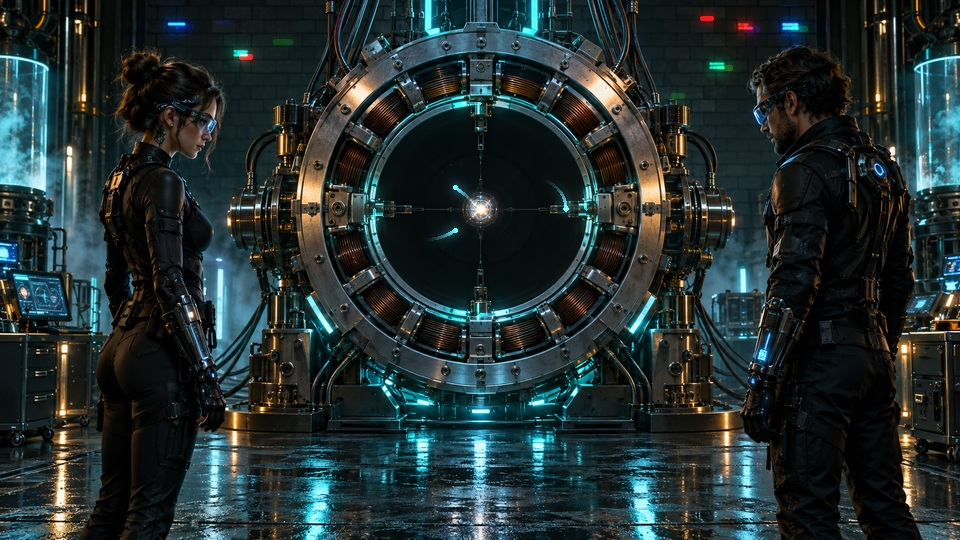
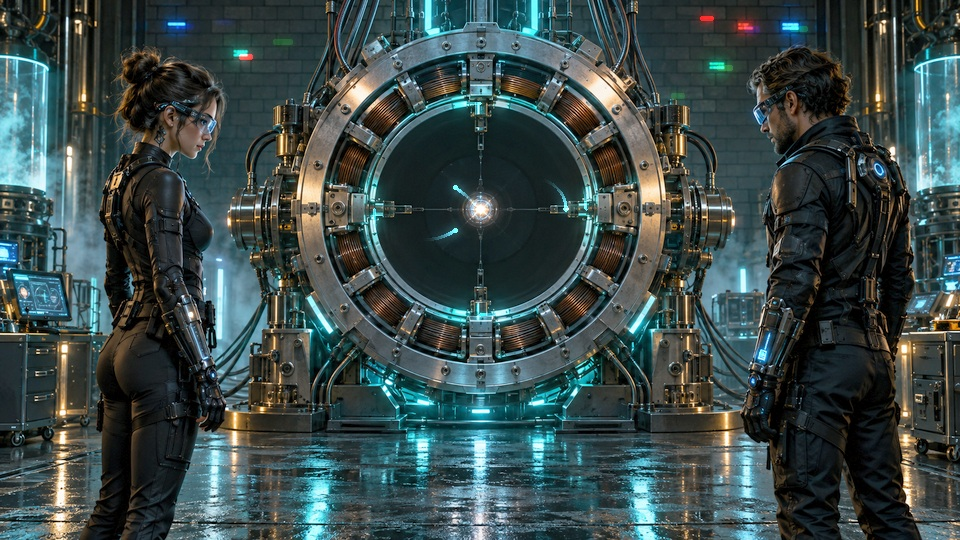
Add files via upload

diff --git a/index.html b/index.html
@@ -1,10 +1,10 @@
 <!DOCTYPE html>
-<html lang="hr">
+<html lang="en">
 <head>
 <meta charset="utf-8">
 <meta name="viewport" content="width=device-width,initial-scale=1">
 <title>Perpetuum · Motivational Momentum 365</title>
-<meta name="description" content="Cyberpunk vizualni eksperiment: Perpetuum. Svaki kraj pokreće novi početak.">
+<meta name="description" content="A cyberpunk visual experiment: Perpetuum. Every ending sets a new beginning in motion.">
 <style>
 *{box-sizing:border-box}body{margin:0;background:#070d11;color:#e7eff0;font-family:system-ui,sans-serif}main{max-width:1440px;margin:auto;padding:28px 24px}header{display:flex;justify-content:space-between;align-items:center;gap:20px;margin-bottom:24px}.brand{font-size:12px;letter-spacing:.16em;color:#92aaaf}a{color:#86cfd5;text-decoration:none;font-size:12px}figure{margin:0;border:1px solid #25343a;background:#071217;overflow:hidden;border-radius:4px}img{display:block;width:100%;height:auto}footer{display:flex;align-items:center;justify-content:space-between;gap:24px;padding-top:24px}h1{margin:0;font-weight:300;letter-spacing:.17em;font-size:clamp(24px,4vw,44px)}p{color:#8ea5ac;font-size:13px;line-height:1.7;margin:9px 0}.number{color:#59b7c1;font-size:11px;letter-spacing:.2em}button{font:inherit;font-size:12px;background:transparent;border:1px solid #405860;border-radius:3px;color:#cce3e7;padding:10px 18px;cursor:pointer}button:focus-visible,a:focus-visible{outline:2px solid #a3eaff;outline-offset:4px}@media(max-width:600px){main{padding:20px 12px}.brand{font-size:9px}footer{align-items:flex-start}p{font-size:11px}}
 </style>
@@ -12,13 +12,13 @@
 <body>
 <main>
 <header><span class="brand">MOTIVATIONAL MOMENTUM 365</span><a href="https://github.com/ChevCellios/motivational-momentum-365">GitHub ↗</a></header>
-<figure><img id="art" src="assets/poster.jpg" width="960" height="540" alt="Dvoje ljudi s tehnološkim gadgetima uz perpetuum mobile stroj i svjetleće RGB ciglice."></figure>
-<footer><div><span class="number">001 / VIZUALNI EKSPERIMENT</span><h1>PERPETUUM</h1><p>Svaki kraj pokreće novi početak.</p></div><button id="toggle" type="button">Pokreni</button></footer>
+<figure><img id="art" src="perpetuum.gif" width="960" height="540" alt="Two people with futuristic gadgets beside a perpetual motion machine and glowing RGB bricks."></figure>
+<footer><div><span class="number">001 / VISUAL EXPERIMENT</span><h1>PERPETUUM</h1><p>Every ending sets a new beginning in motion.</p></div><button id="toggle" type="button" aria-pressed="true">Pause</button></footer>
 </main>
 <script>
 const art=document.getElementById('art'),button=document.getElementById('toggle');
-let running=!matchMedia('(prefers-reduced-motion: reduce)').matches;
-function update(){art.src=running?'perpetuum.gif':'assets/poster.jpg';button.textContent=running?'Zaustavi':'Pokreni';button.setAttribute('aria-pressed',String(running));}
+let running=true;
+function update(){art.src=running?'perpetuum.gif':'assets/poster.jpg';button.textContent=running?'Pause':'Play';button.setAttribute('aria-pressed',String(running));}
 button.addEventListener('click',()=>{running=!running;update()});update();
 </script>
 </body>

diff --git a/src/render.py b/src/render.py
@@ -1,13 +1,16 @@
-"""Programirana animacija: Python + Pillow. Pokretanje: python src/render.py.
+"""Procedural animation with Python and Pillow. Run: python src/render.py.
 
-Osnovna ilustracija je AI-generirana. Ovaj program animira rotor,
-zatvoreni tok energije, jezgru, gadgete i RGB ciglice. Likovi su mirni.
-Prompt za izradu osnovne ilustracije nije dio javnog projekta.
+The base illustration is AI-generated. This script animates the rotor,
+closed energy flow, core, gadgets and RGB bricks. The characters remain still.
+The image-generation prompt is not included in the public project.
 """
 from pathlib import Path
 from math import sin, cos, pi
 import argparse
 import random
+import shutil
+import subprocess
+import tempfile
 from PIL import Image, ImageDraw, ImageFilter, ImageChops
 
 ROOT = Path(__file__).resolve().parents[1]
@@ -16,7 +19,11 @@ TAU = 2 * pi
 CX, CY = 480, 209
 
 base = Image.open(ROOT / 'assets/scene.png').convert('RGB').resize((W, H), Image.Resampling.LANCZOS)
-# Pravi teksturirani rotor, odvojen od nepomicnog vanjskog kucista.
+# Lift shadows and midtones while preserving highlight detail.
+# Keep the original illustration unchanged; apply grading during rendering.
+tone_curve = [round(255 * (value / 255) ** 0.68) for value in range(256)]
+base = base.point(tone_curve * 3)
+# Extract the textured rotor from the stationary outer housing.
 R = 155
 rotor = base.crop((CX-R, CY-R, CX+R, CY+R))
 mask = Image.new('L', rotor.size)
@@ -37,7 +44,7 @@ def frame(index):
     out.paste(moving, (CX-R, CY-R), mask)
     light = Image.new('RGB', (W,H))
     d = ImageDraw.Draw(light)
-    # Tri svjetlosna putnika prolaze istom zatvorenom putanjom osmice.
+    # Three light particles follow the same closed figure-eight path.
     def infinity(a):
         return (CX+86*cos(a)/(1+sin(a)**2), CY+86*sin(a)*cos(a)/(1+sin(a)**2))
     for k in range(3):
@@ -48,7 +55,7 @@ def frame(index):
             color = tuple(int(c*brightness) for c in (90,211,238))
             radius = 1.1 if j else 2.1
             d.ellipse((x-radius,y-radius,x+radius,y+radius), fill=color)
-    # Kruzni tok energije uz unutarnji rub stroja.
+    # Circular energy flow along the inner rim of the machine.
     for k in range(4):
         angle = t+k*pi/2
         for j in range(24):
@@ -63,7 +70,7 @@ def frame(index):
         channels = [max(0,cos(t+phase-c*TAU/3))**2 for c in range(3)]
         color=tuple(int(245*intensity*v) for v in channels)
         d.rounded_rectangle((x,y,x+w,y+h),radius=1,fill=color)
-    # Blago pulsiranje gadgeta, bez naglih bljeskova.
+    # Gentle gadget pulses without abrupt flashes.
     for x,y,phase in [(190,314,0),(761,353,2),(843,170,4)]:
         b=.4+.3*sin(t+phase)
         d.ellipse((x-2,y-2,x+2,y+2),fill=(int(20*b),int(150*b),int(220*b)))
@@ -74,16 +81,16 @@ def frame(index):
 
 def main():
     parser=argparse.ArgumentParser()
-    parser.add_argument('--frames',type=Path,help='Opcionalna mapa PNG kadrova za FFmpeg')
+    parser.add_argument('--frames',type=Path,help='Optional PNG frame directory for FFmpeg')
     args=parser.parse_args()
     if args.frames:
         args.frames.mkdir(parents=True,exist_ok=True)
         for i in range(N):
             frame(i).save(args.frames/f'{i:04d}.png')
-        print(f'Spremljeno {N} kadrova u {args.frames}')
+        print(f'Saved {N} frames to {args.frames}')
         return
     frames=[frame(i) for i in range(N)]
-    # Jedna paleta zadrzava stabilne boje kroz cijelu petlju.
+    # A shared palette keeps colors stable throughout the loop.
     sheet=Image.new('RGB',(W*3,H*2))
     for n,i in enumerate(range(0,N,20)):
         sheet.paste(frames[i],((n%3)*W,(n//3)*H))
@@ -91,8 +98,17 @@ def main():
     indexed=[im.quantize(palette=palette,dither=Image.Dither.NONE) for im in frames]
     dest=ROOT/'perpetuum.gif'
     indexed[0].save(dest,save_all=True,append_images=indexed[1:],duration=50,loop=0,optimize=True,disposal=1)
+    # FFmpeg reduces file size without changing frame count or duration.
+    ffmpeg = shutil.which('ffmpeg')
+    if ffmpeg:
+        with tempfile.TemporaryDirectory() as temp:
+            optimized = Path(temp) / 'optimized.gif'
+            subprocess.run([ffmpeg,'-hide_banner','-loglevel','error','-i',str(dest),
+                '-filter_complex','[0:v]split[a][b];[a]palettegen=max_colors=192:stats_mode=diff[p];[b][p]paletteuse=dither=none:diff_mode=rectangle',
+                '-loop','0','-y',str(optimized)],check=True)
+            shutil.copyfile(optimized,dest)
     frames[0].save(ROOT/'assets/poster.jpg',quality=94)
-    print(f'Spremljeno: {dest} ({dest.stat().st_size/1024/1024:.2f} MB)')
+    print(f'Saved: {dest} ({dest.stat().st_size/1024/1024:.2f} MB)')
 
 if __name__=='__main__':
     main()

diff --git a/README.md b/README.md
@@ -1,31 +1,105 @@
-# Motivational Momentum 365
+# ⚡ Motivational Momentum 365
 
-![Perpetuum: cyberpunk laboratorij s ljudskim likovima, rotirajućim strojem i RGB ciglicama](perpetuum.gif)
+[![Perpetuum — an animated cyberpunk laboratory with human characters and RGB bricks](perpetuum.gif)](https://chevcellios.github.io/motivational-momentum-365/)
 
-### 001 — Perpetuum
+![Language](https://img.shields.io/badge/language-English-green)
+![Animation](https://img.shields.io/badge/animation-GIF-blueviolet)
+![Code](https://img.shields.io/badge/code-Python-orange)
+![Duration](https://img.shields.io/badge/loop-6%20seconds-00b8c4)
+![Resolution](https://img.shields.io/badge/resolution-960%20%C3%97%20540-blue)
 
-**Svaki kraj pokreće novi početak.**
+Motivational Momentum 365 is a collection of motivational visual experiments combining artificial intelligence, programming and creative expression. The idea is simple: create something every day, explore a new idea and keep moving forward.
 
-⚡ Svakodnevni kreativni zamah · 🤖 AI vizuali · 🎨 Generativna umjetnost · 💻 Animacija kodom
+## 🔗 Explore the animation
 
-[Otvori zasebnu stranicu](https://chevcellios.github.io/motivational-momentum-365/)
+- [Perpetuum — live page](https://chevcellios.github.io/motivational-momentum-365/)
+- [Open the GIF](perpetuum.gif)
+- [Animation source code](src/render.py)
 
-Fotorealistična AI ilustracija s programiranom animacijom rotora, zatvorenog toka energije, gadgeta i RGB ciglica. Ljudski likovi u ovoj izvedbi ostaju mirni. Perpetuum mobile je umjetnički koncept, ne fizički izvediv stroj.
+The GIF appears directly below the repository title. There is no need to open the HTML source. Autoplay on GitHub depends on each viewer's motion preferences; the standalone page starts the animation immediately and includes a pause button.
 
-GIF se ponavlja svakih šest sekundi. GitHubove osobne postavke pristupačnosti mogu zaustaviti automatsku reprodukciju.
+## ✨ Features
 
-<details>
-<summary>Kako je animacija izrađena</summary>
+- photorealistic computer-generated human characters with futuristic gadgets
+- a cyberpunk laboratory with detailed metal machinery and neon lighting
+- a rotating inner ring animated through code
+- light particles following a closed figure-eight path
+- RGB bricks with gradual color changes and staggered lighting cycles
+- brighter faces, clothing and mechanical details
+- a six-second animation that loops continuously
+- a responsive page for desktop and mobile devices
+- English descriptions, documentation and interface
 
-Osnovna ilustracija generirana je uz pomoć AI-ja. Pokret je programiran u Pythonu, pomoću biblioteke Pillow otvorenog koda. Izrada animacije iz priložene ilustracije ne zahtijeva plaćeni servis ni API ključ.
+## ♾ First creation — Perpetuum
 
-Za ponovnu izradu GIF-a:
+> Every ending sets a new beginning in motion.
+
+Two people observe a machine symbolizing continuous motion and creative momentum. Energy follows a closed path, the rotor turns and the laboratory lights change color.
+
+Perpetual motion is an artistic concept here. The human characters remain still; the rotor, energy, gadgets and RGB bricks are animated.
+
+## 🎨 How it is made
+
+1. The base illustration is generated with AI assistance.
+2. Python code lifts shadows and midtones and isolates the rotor.
+3. Motion, light trails and RGB color changes are calculated for each frame.
+4. Pillow assembles 120 frames into a continuously looping GIF.
+5. When available, FFmpeg reduces the GIF file size.
+6. The README displays the GIF, while a separate HTML page adds playback controls.
+
+## 🔒 Creative process
+
+The finished artwork, base illustration and animation code are included in the repository. Prompts and private working notes are not shared.
+
+## ⚙ Technologies
+
+- Python and Pillow — frame generation and GIF export
+- FFmpeg — optional file size optimization
+- HTML, CSS and JavaScript — standalone animation page
+- GitHub Markdown — repository homepage presentation
+- GitHub Pages — website hosting
+
+Pillow and FFmpeg are open-source tools. Rebuilding the animation from the included illustration requires no paid service or API key. The base illustration was previously created using an AI tool.
+
+## 🚀 Run locally
+
+Open `index.html` in a browser to view the animation. No installation is required.
+
+To rebuild the GIF, use a Python version compatible with the pinned Pillow release:
 
 ```sh
 python -m pip install -r requirements.txt
 python src/render.py
 ```
 
-Izvorna ilustracija nalazi se u `assets/scene.png`, a kod u `src/render.py`. Promptovi i privatne radne bilješke nisu uključeni.
+The script saves `perpetuum.gif` and a still preview at `assets/poster.jpg`. If FFmpeg is installed and available on your system PATH, GIF optimization runs automatically.
 
-</details>
+## 📁 Project structure
+
+```text
+motivational-momentum-365/
+├── README.md
+├── index.html
+├── perpetuum.gif
+├── requirements.txt
+├── assets/
+│   ├── scene.png
+│   └── poster.jpg
+└── src/
+    └── render.py
+```
+
+## 🗺 Future creations
+
+- more motivational visuals and animations
+- a gallery with a title, date and message for each creation
+- further experiments with light, motion and computer-generated scenes
+
+## 🤝 Feedback
+
+Suggestions and bug reports are welcome through [GitHub Issues](https://github.com/ChevCellios/motivational-momentum-365/issues).
+
+## 📬 Contact
+
+- GitHub: [ChevCellios](https://github.com/ChevCellios)
+- Project: [Motivational Momentum 365](https://github.com/ChevCellios/motivational-momentum-365)
